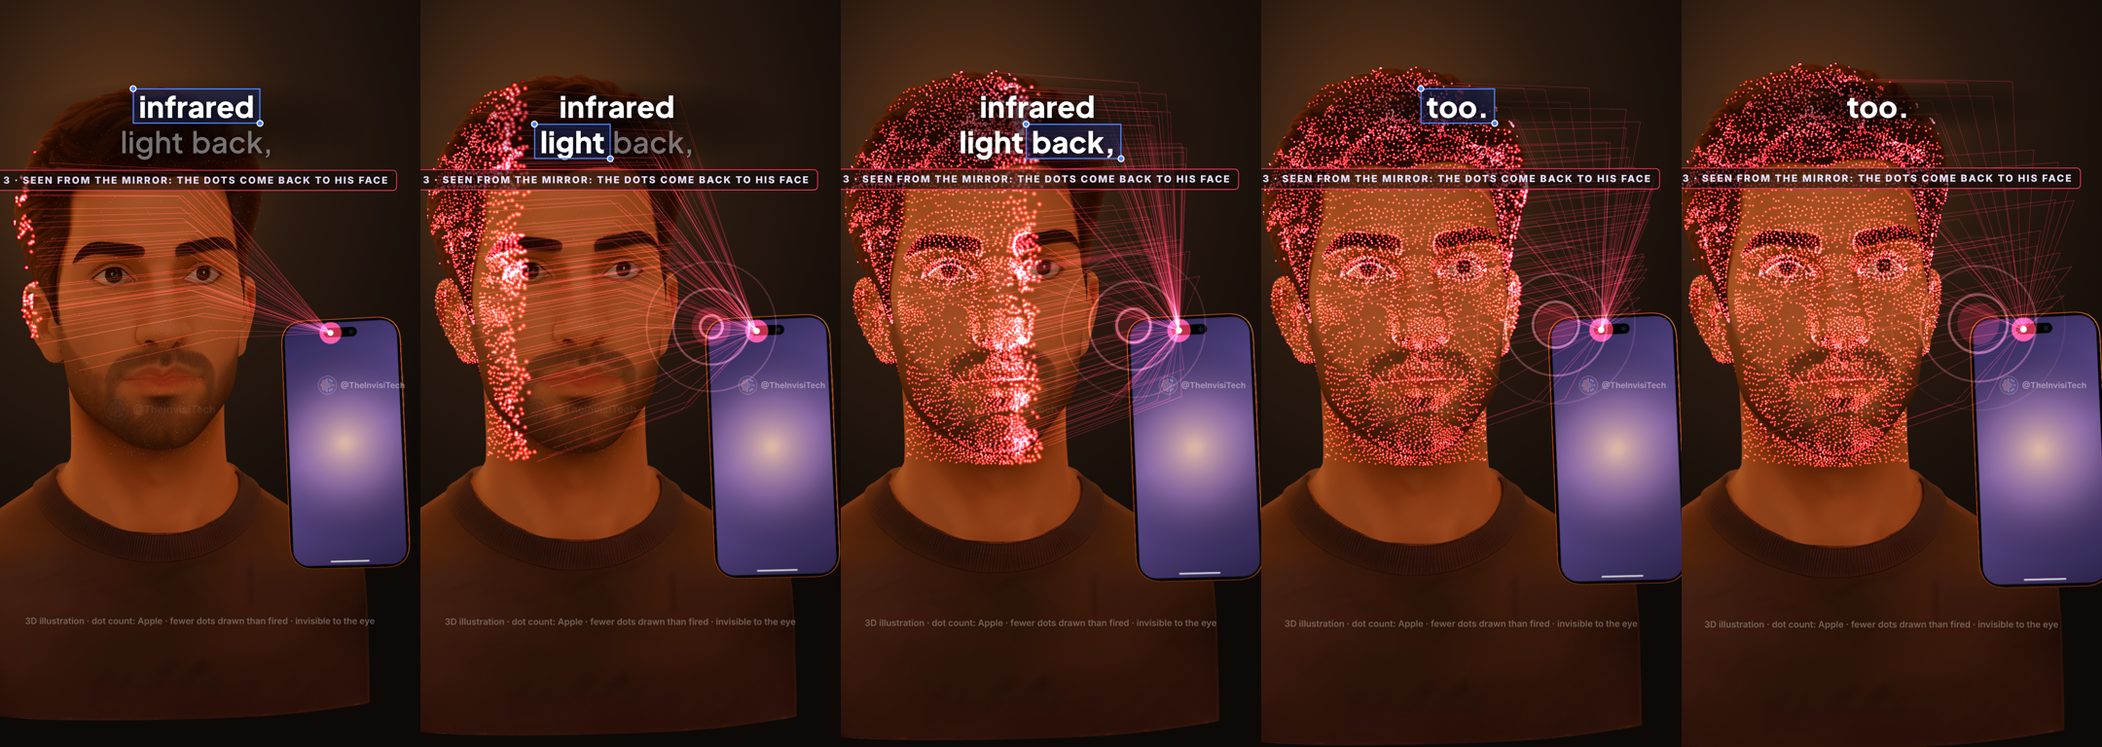
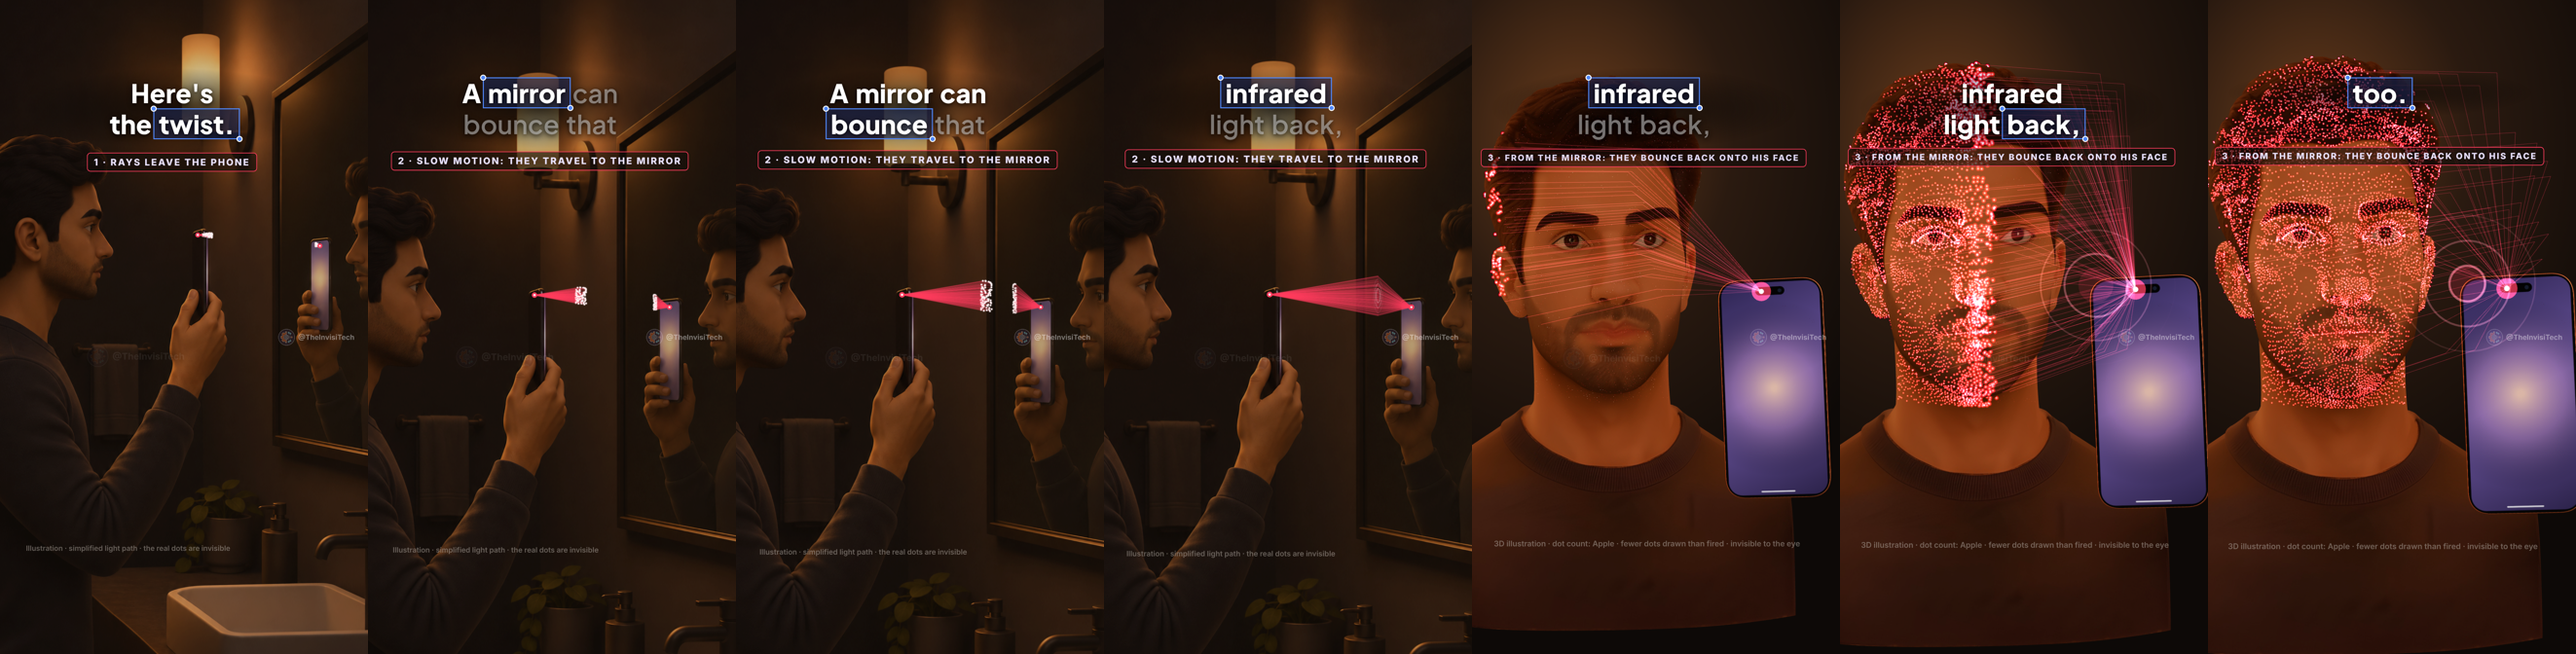
Mirror Short: side view shows the rays travelling to the mirror in slow motion, then the mirror view
Claude-Session: https://claude.ai/code/session_01GXcKc5WnFrVWBsHLe8YpAy

diff --git a/face-id/mirror-short/src/scenes/Mirror.tsx b/face-id/mirror-short/src/scenes/Mirror.tsx
@@ -41,7 +41,8 @@ const STREAM = Array.from({ length: 150 }, () => [rnd(), rnd()]);
 // three shots: wide · one closer framing that holds his face, the phone and the glass together, so the bounce off the
 // mirror and the dots landing on his face are seen in the same frame · wide again (what the camera sees)
 export const MIR = { glass: 54, face: 96, wide: 999, inside: 104 };   // inside: the cut into the mirror view
-const STEPS = [{ at: 30, to: MIR.glass, text: '1 · DOTS LEAVE THE PHONE' }, { at: MIR.glass, to: MIR.wide, text: '2 · THE MIRROR REFLECTS THEM ONTO HIS FACE' }, { at: MIR.wide, to: 999, text: '3 · THE CAMERA SEES HIS FACE IN THE MIRROR' }];
+const RAY0 = 36, RAY1 = 94;                                           // the rays leave the phone / reach the glass (about 2 s: slow motion)
+const STEPS = [{ at: 30, to: MIR.glass, text: '1 · RAYS LEAVE THE PHONE' }, { at: MIR.glass, to: MIR.wide, text: '2 · SLOW MOTION: THEY TRAVEL TO THE MIRROR' }, { at: MIR.wide, to: 999, text: '3 · THE CAMERA SEES HIS FACE IN THE MIRROR' }];
 
 // MIR_FROM: the setup is trimmed, the scene starts this many frames in (just before the dots leave the phone)
 export const MIR_FROM = 24;
@@ -50,7 +51,7 @@ export const Mirror: React.FC = () => {
   if (l >= MIR.inside) return (
     <AbsoluteFill>
       <Orbit3D g={0} pov={l - MIR.inside} />
-      <Label text="3 · SEEN FROM THE MIRROR: THE DOTS COME BACK TO HIS FACE" x={505} y={452} o={ramp(l, MIR.inside + 4, MIR.inside + 8)} size={24} align="center" color={C.ir} />
+      <Label text="3 · FROM THE MIRROR: THEY BOUNCE BACK ONTO HIS FACE" x={505} y={452} o={ramp(l, MIR.inside + 4, MIR.inside + 8)} size={24} align="center" color={C.ir} />
     </AbsoluteFill>
   );
   const s = 1 + 0.25 * ramp(l, 0, 30, 0, 1, (x) => x * x * (3 - 2 * x)) + 0.02 * (l / 222);   // wide enough to keep his reflection in frame   // push in on the phone, mirror and face
@@ -63,33 +64,22 @@ export const Mirror: React.FC = () => {
         <Img src={staticFile('bathroom_side.png')} style={{ position: 'absolute', left: 0, top: 0, width: 1080, height: 1672 * K, filter: `brightness(${1 - 0.25 * ramp(l, 30, 60)})` }} />
         <svg viewBox="0 0 941 1672" style={{ position: 'absolute', left: 0, top: 0, width: 1080, height: 1672 * K }}>
           <defs><filter id="mg" x="-30%" y="-30%" width="160%" height="160%"><feGaussianBlur stdDeviation="1.1" result="b" /><feMerge><feMergeNode in="b" /><feMergeNode in="SourceGraphic" /></feMerge></filter></defs>
-          {/* very fine guide rays, like the 3D dots clip */}
-          <g opacity={0.2 * ramp(l, 40, 60) * (1 - ramp(l, 122, 130))}>
-            {FACE_DOTS.filter((_, i) => i % 14 === 0).map((f, i) => { const m = hit(f); return <path key={i} d={`M ${P[0]} ${P[1]} L ${m[0]} ${m[1]} L ${f[0]} ${f[1]}`} fill="none" stroke={C.ir} strokeWidth={0.5} />; })}
-          </g>
-          {/* every dot flies from the projector to the glass, reflects, and lands on its own spot on his face */}
+          {/* slow motion: the rays leave the dot projector and travel to the glass. They reach it just before the cut to
+              the mirror view, which shows them coming back onto his face. The mirror shows the same rays, mirrored. */}
           <g filter="url(#mg)">
-            {FACE_DOTS.map((f, i) => {
-              const m = hit(f), a = len(P, m), b = len(m, f), t0 = launch(f), p = (l - t0) / FLY;
-              if (p <= 0) return null;
-              if (p >= 1) { const g = mir(f); return <g key={i}><circle cx={f[0]} cy={f[1]} r={1.25 * (1 + 0.8 * (1 - ramp(l, t0 + FLY, t0 + FLY + 5)))} fill={C.ir} opacity={0.75 + 0.25 * f[2]} /><circle cx={g[0]} cy={g[1]} r={1.0} fill={C.ir} opacity={0.75} /></g>; }
-              const d = p * (a + b), q = d < a ? [P[0] + (m[0] - P[0]) * d / a, P[1] + (m[1] - P[1]) * d / a] : [m[0] + (f[0] - m[0]) * (d - a) / b, m[1] + (f[1] - m[1]) * (d - a) / b];
-              const g = mir(q); return <g key={i}><circle cx={q[0]} cy={q[1]} r={1.7} fill={C.irCore} /><circle cx={g[0]} cy={g[1]} r={1.4} fill={C.irCore} opacity={0.85} /></g>;
+            {FACE_DOTS.filter((_, i) => i % 9 === 0).map((f, i) => {
+              const m = hit(f), pr = ramp(l, RAY0 + f[2] * 6, RAY1 + f[2] * 6, 0, 1, (x) => x); if (pr <= 0) return null;
+              const tip = [P[0] + (m[0] - P[0]) * pr, P[1] + (m[1] - P[1]) * pr], g = mir(tip);
+              return (
+                <g key={i}>
+                  <line x1={P[0]} y1={P[1]} x2={tip[0]} y2={tip[1]} stroke={C.ir} strokeWidth={0.5} opacity={0.5} />
+                  <line x1={RC[0]} y1={RC[1]} x2={g[0]} y2={g[1]} stroke={C.ir} strokeWidth={0.45} opacity={0.45} />
+                  {pr < 1 && <><circle cx={tip[0]} cy={tip[1]} r={1.5} fill={C.irCore} /><circle cx={g[0]} cy={g[1]} r={1.2} fill={C.irCore} opacity={0.8} /></>}
+                </g>);
             })}
-            {/* the stream keeps flowing while the camera looks */}
-            {l > 100 && STREAM.map(([k, o], i) => { const f = FACE_DOTS[Math.floor(k * FACE_DOTS.length)], m = hit(f), a = len(P, m), b = len(m, f), u = ((l / 30) + o) % 1, d = u * (a + b);
-              const q = d < a ? [P[0] + (m[0] - P[0]) * d / a, P[1] + (m[1] - P[1]) * d / a] : [m[0] + (f[0] - m[0]) * (d - a) / b, m[1] + (f[1] - m[1]) * (d - a) / b];
-              const g = mir(q); return <g key={'s' + i}><circle cx={q[0]} cy={q[1]} r={1.2} fill={C.ir} opacity={0.8} /><circle cx={g[0]} cy={g[1]} r={1.05} fill={C.ir} opacity={0.7} /></g>; })}
           </g>
-          {/* soft glints where the stream meets the glass */}
-          {[0, 1, 2].map((k) => { const u = ((l - 52) / 26 + k / 3) % 1; return l > 52 ? <ellipse key={k} cx={MX} cy={606} rx={3 + 12 * u} ry={10 + 46 * u} fill="none" stroke={C.irCore} strokeWidth={0.9} opacity={0.5 * (1 - u)} /> : null; })}
-          {/* the reflection rule, shown on the middle ray: dashed normal + equal angles */}
-          {(() => { const { m, f } = RAYS[2], o = ramp(l, 74, 80) * (1 - ramp(l, 122, 128)), r = 34;
-            const ang = (q: number[]) => Math.atan2(q[1] - m[1], q[0] - m[0]), a1 = ang(P), a2 = ang(f);
-            const arc = (from: number, to: number) => `M ${m[0] + r * Math.cos(from)} ${m[1] + r * Math.sin(from)} A ${r} ${r} 0 0 ${to > from ? 1 : 0} ${m[0] + r * Math.cos(to)} ${m[1] + r * Math.sin(to)}`;
-            return <g opacity={o} stroke="#fff" fill="none"><line x1={m[0]} y1={m[1]} x2={m[0] - 70} y2={m[1]} strokeWidth={1.2} strokeDasharray="4 4" /><path d={arc(Math.PI, a1)} strokeWidth={1.6} /><path d={arc(Math.PI, a2)} strokeWidth={1.6} /></g>; })()}
-          {/* return trip: what the camera receives (dashed, moving toward the phone) */}
-          {l >= MIR.wide && [RAYS[1], RAYS[3]].map(({ f, m }, k) => <path key={k} d={`M ${f[0]} ${f[1] + 5} L ${m[0]} ${m[1] + 5} L ${P[0] + 6} ${P[1] + 8}`} fill="none" stroke="#fff" strokeWidth={1.4} strokeDasharray="7 7" strokeDashoffset={-l * 1.4} opacity={0.8 * ramp(l, MIR.wide, MIR.wide + 6)} />)}
+          {/* a small ripple on the glass as the rays arrive */}
+          {[0, 1, 2].map((k) => { const u = ((l - RAY1) / 14 + k / 3) % 1; return l > RAY1 ? <ellipse key={k} cx={MX} cy={606} rx={2 + 7 * u} ry={8 + 26 * u} fill="none" stroke={C.irCore} strokeWidth={0.9} opacity={0.6 * (1 - u)} /> : null; })}
           {/* the same projector, seen in the mirror */}
           <circle cx={RC[0]} cy={RC[1]} r={4.5 + Math.sin(l / 3)} fill={C.ir} opacity={0.9 * ramp(l, 30, 34)} /><circle cx={RC[0]} cy={RC[1]} r={1.8} fill="#fff" opacity={ramp(l, 30, 34)} />
           <circle cx={P[0]} cy={P[1]} r={5} fill={C.ir} opacity={ramp(l, 30, 34)} /><circle cx={P[0]} cy={P[1]} r={2} fill="#fff" opacity={ramp(l, 30, 34)} />
